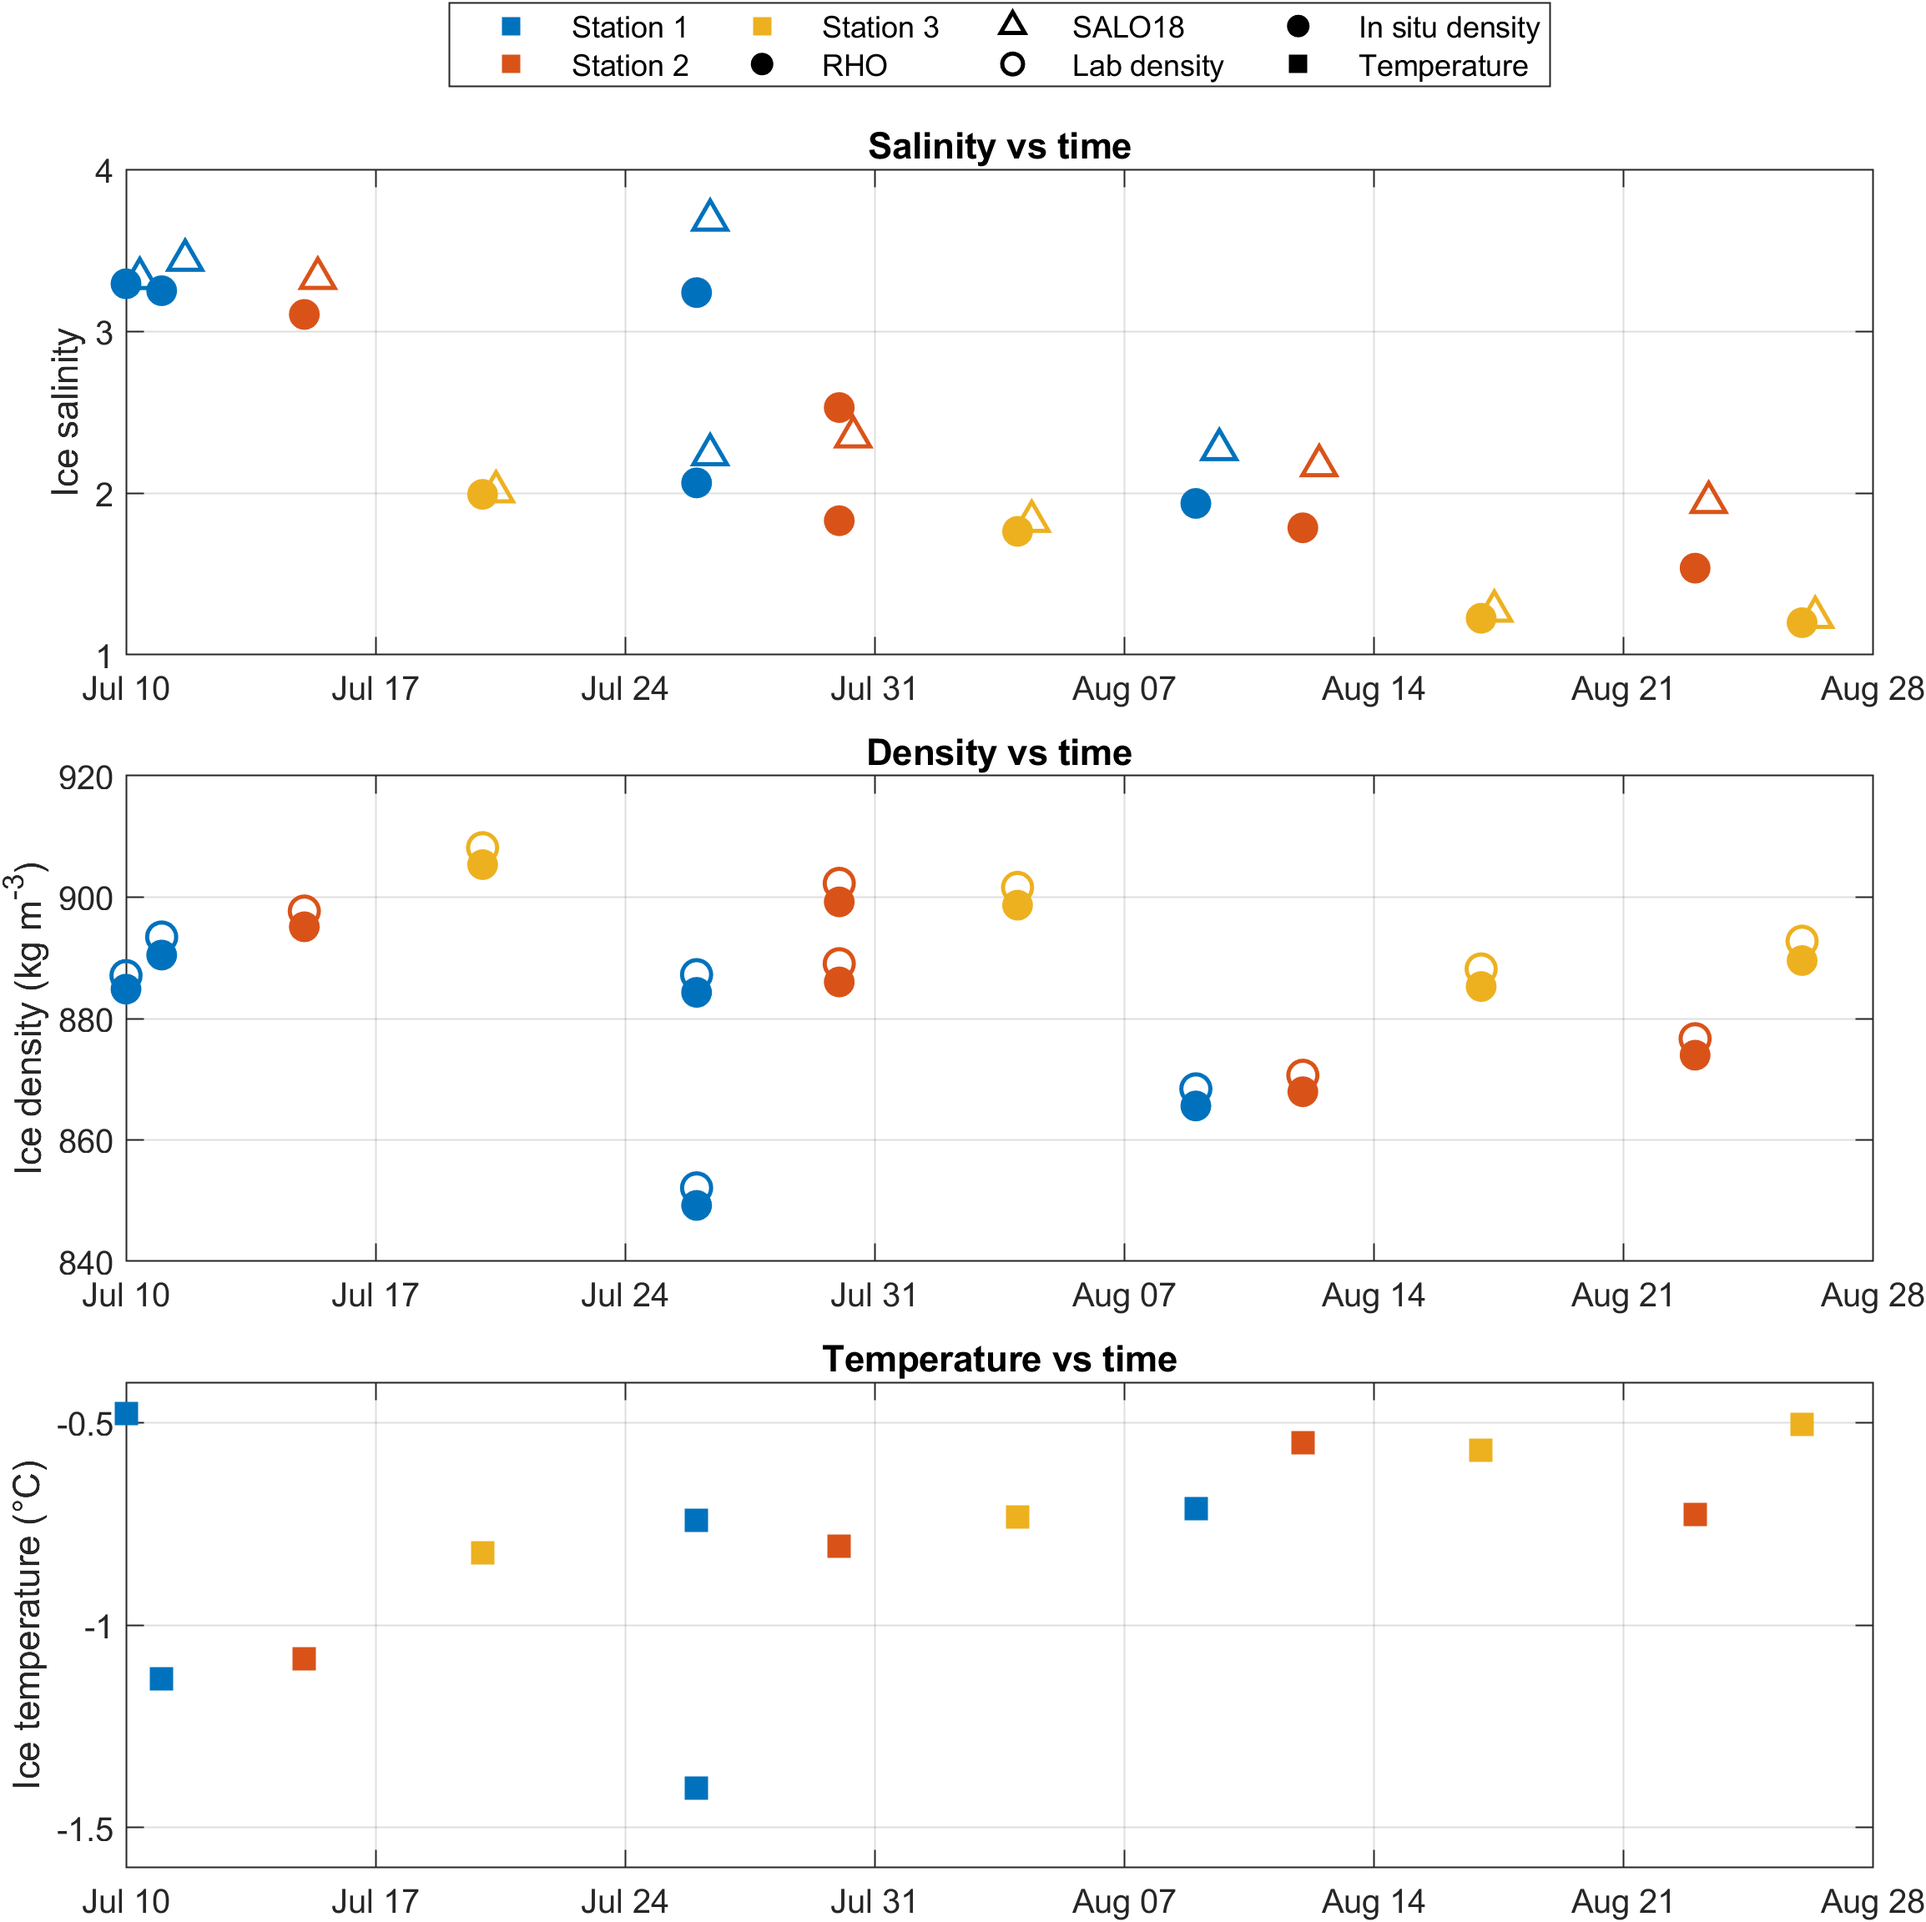
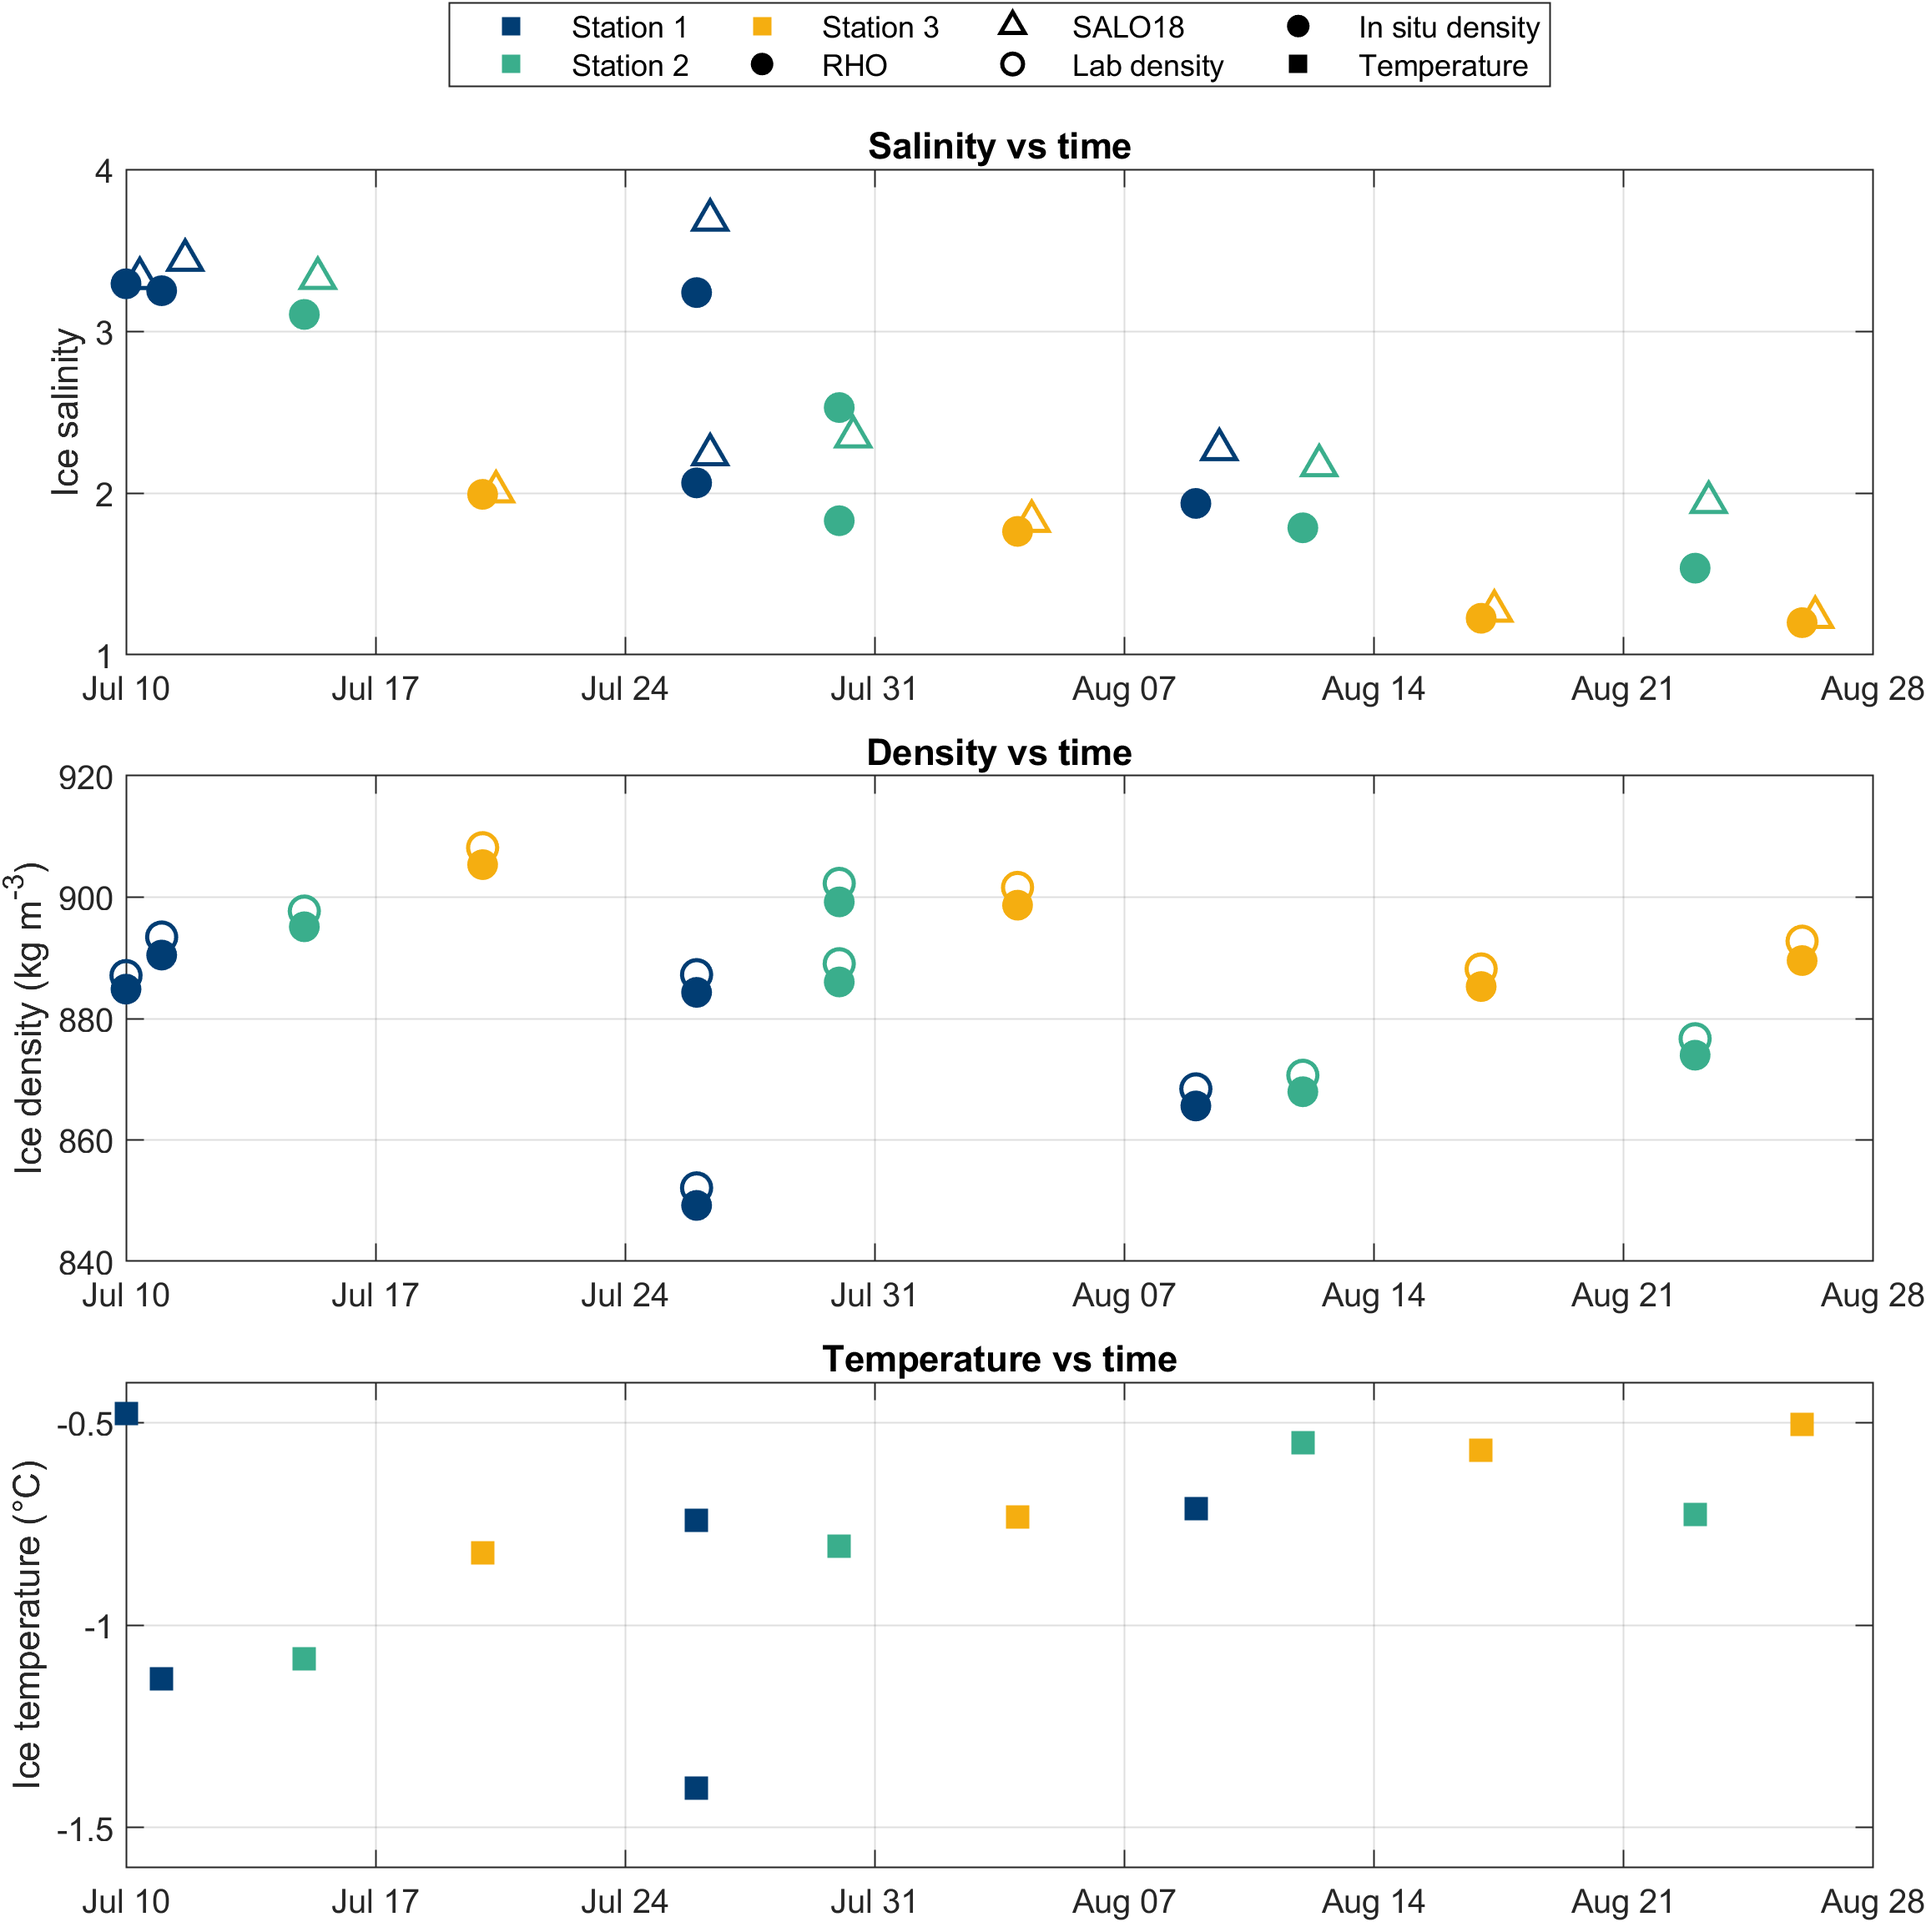
Add files via upload
Updated color palette.

diff --git a/CONTRASTS_coring_plotting.m b/CONTRASTS_coring_plotting.m
@@ -134,7 +134,7 @@ stations = stations(~isnan(stations));
 stations = stations(ismember(stations,[1 2 3]));
 stations = sort(stations);
 
-cols = lines(3);
+cols = [1 61 115; 58 174 140; 245 174 16] / 255; % CONTRASTS station colors from Okabe-Ito palette
 
 figure('Color','w');
 tiledlayout(3,1,'Padding','compact','TileSpacing','compact');
